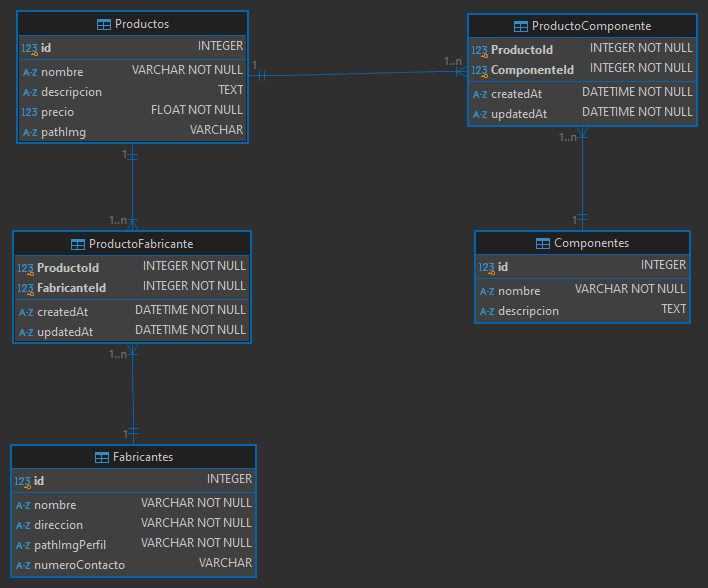
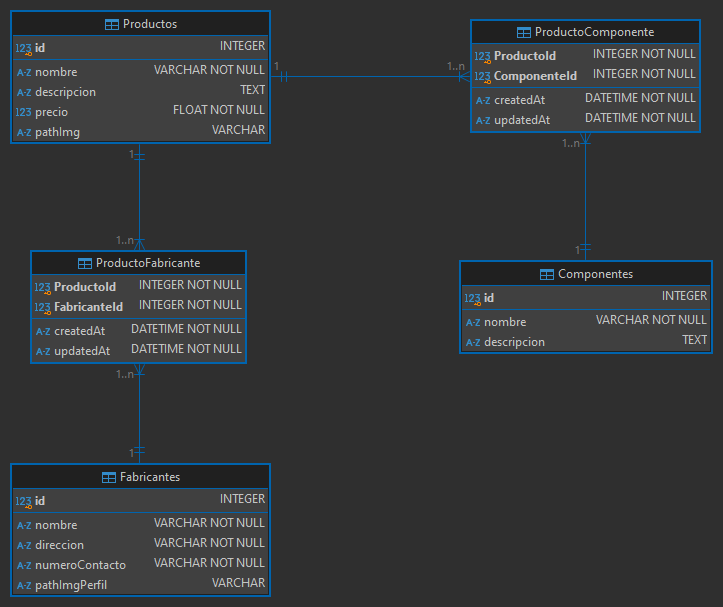
models fabricante pathImg fix

diff --git a/src/models/fabricante_model.js b/src/models/fabricante_model.js
@@ -13,11 +13,11 @@ Fabricante.init({
         type: DataTypes.STRING,
         allowNull: false
     },
-    pathImgPerfil: {
+    numeroContacto: {
         type: DataTypes.STRING,
         allowNull: false
     },
-    numeroContacto: DataTypes.STRING
+    pathImgPerfil: DataTypes.STRING
 }, {
     sequelize,
     modelName: 'Fabricante',
